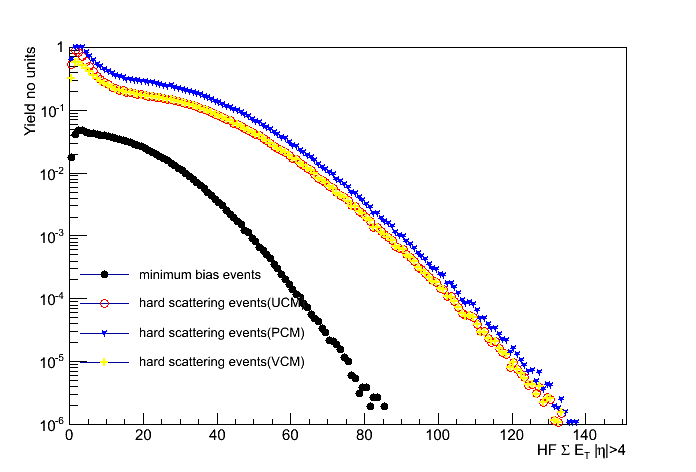
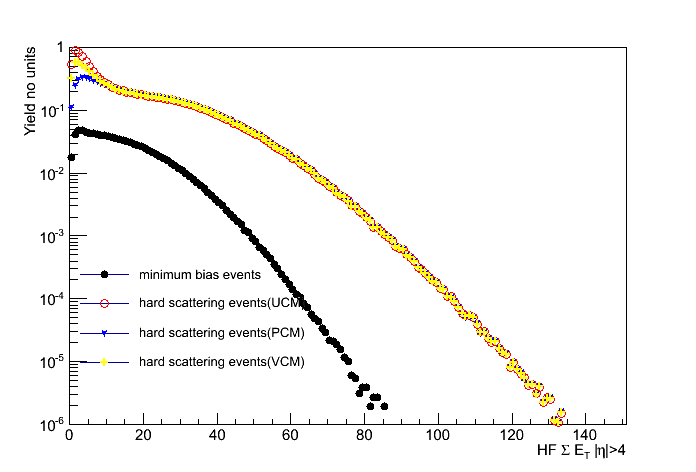
result

diff --git a/centrality/Bias/hPYphocalc.C b/centrality/Bias/hPYphocalc.C
@@ -98,7 +98,7 @@ void hPYphocalc(){
 		double k = gammafun[(int)Npart]->GetParameter(0);
 		double theta = gammafun[(int)Npart]->GetParameter(1);
 		double YNcollUCM = C*Ncoll;
-		double YNcollPCM = C/2.0/(*kbest)[0]/theta*(Para_nucl+Para_evt);
+		double YNcollPCM = C/2.0/(*kbest)[0]/theta*(Para_nucl+Para_nucl);
 		double YNcollVCM = C/2.0*(Para_nucl/(*kbest)[0]/theta+Ncoll);
 		yUCM[ibin] += PNcoll[(int)Ncoll]*PNcollET*YNcollUCM;
 		yPCM[ibin] += PNcoll[(int)Ncoll]*PNcollET*YNcollPCM;
